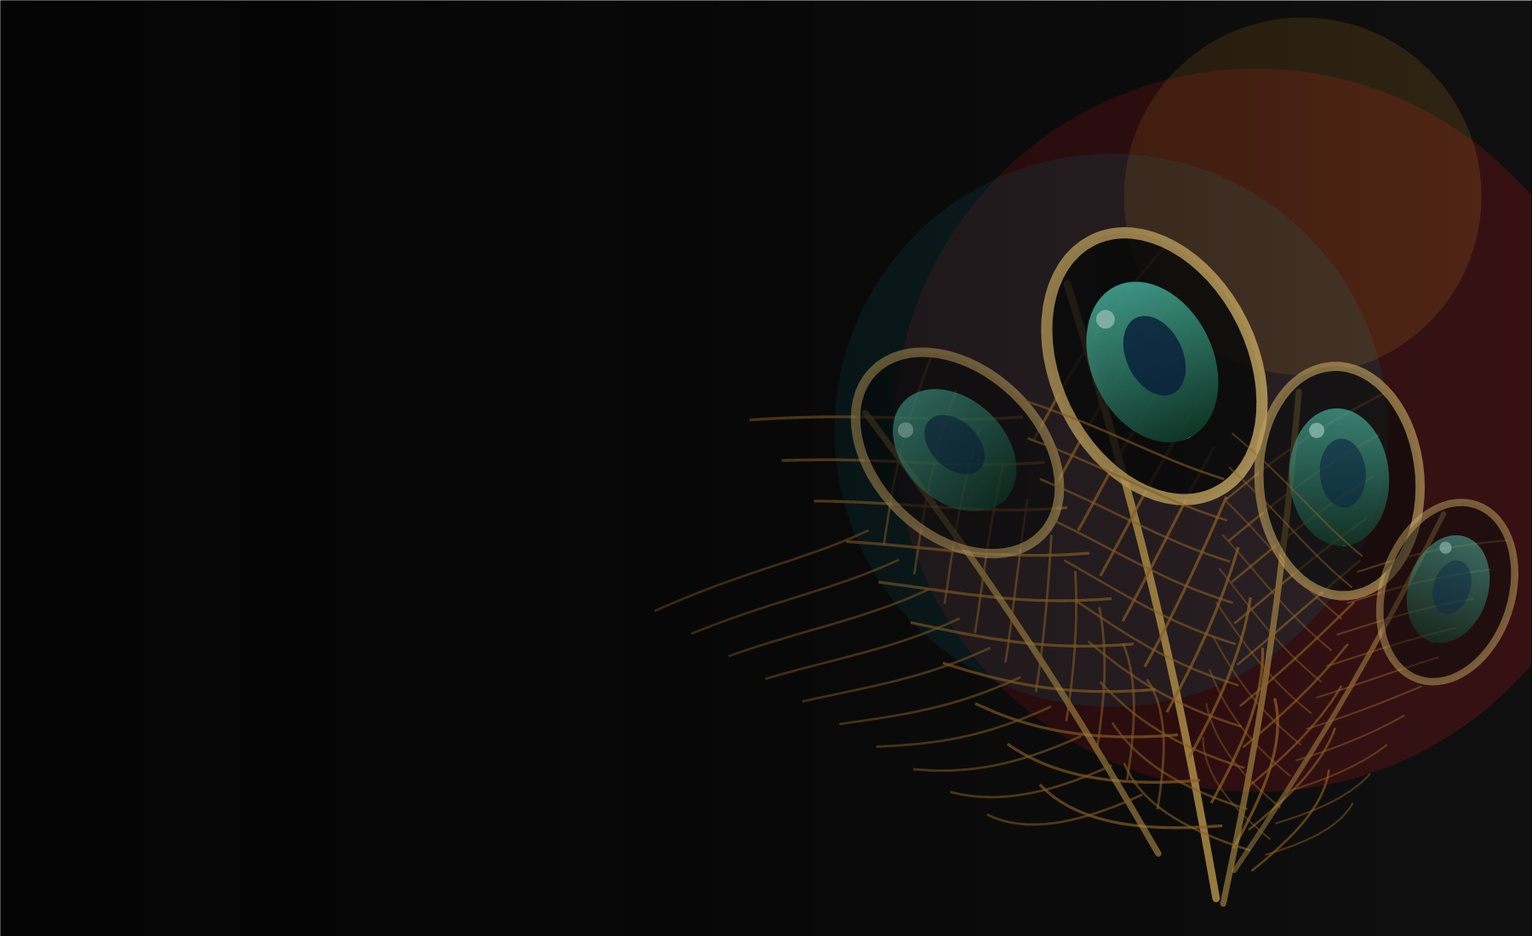
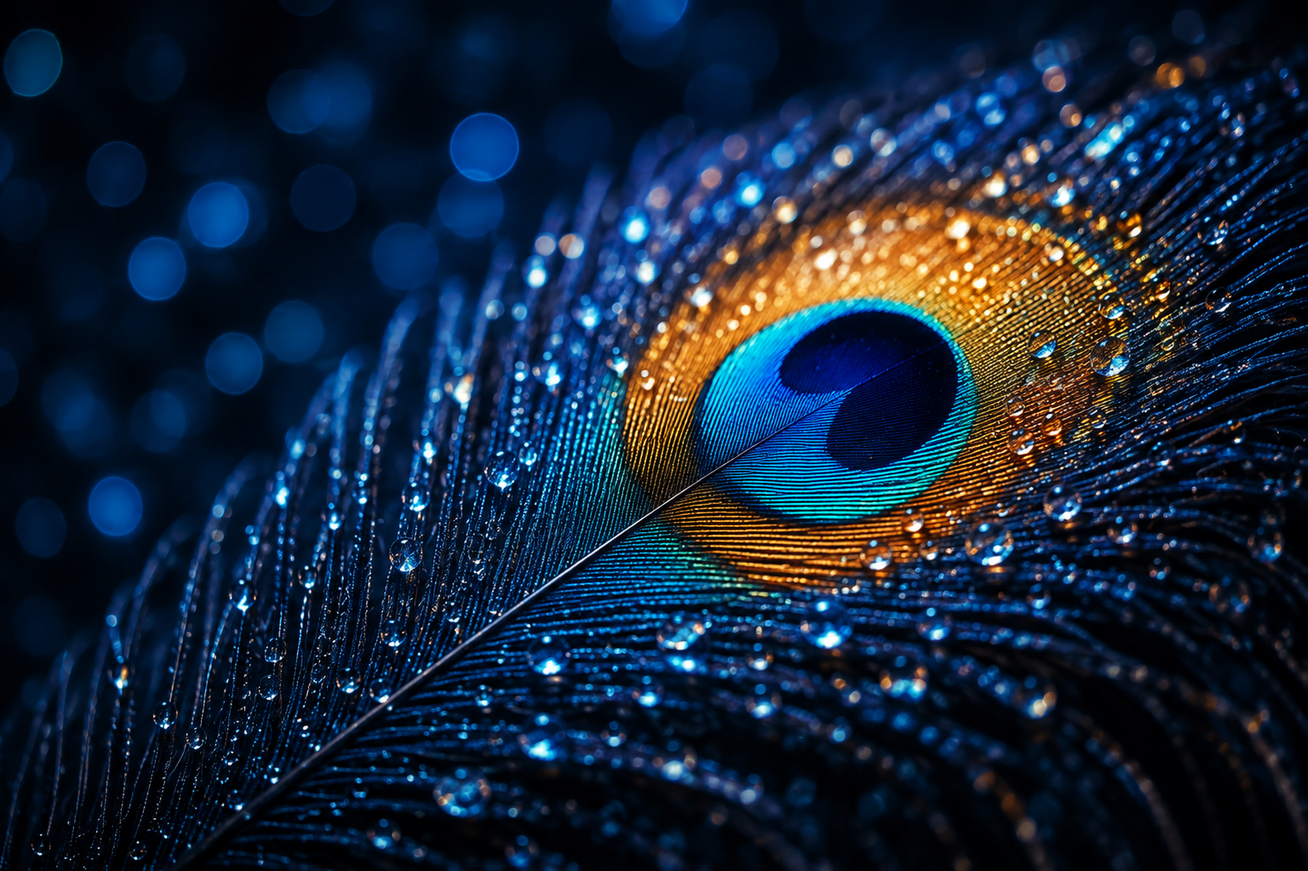
upriosing

diff --git a/lib/ai/mock-assistant.ts b/lib/ai/mock-assistant.ts
@@ -35,9 +35,9 @@ const KNOWLEDGE_BASE: KnowledgeEntry[] = [
     href: '/mock-tests',
     label: { en: 'Start NEET Preparation', ta: 'NEET தயாரிப்பை தொடங்குங்கள்', hi: 'NEET तैयारी शुरू करें' },
     answer: {
-      en: 'SIVORA supports NEET preparation through Question Bank practice, chapter-wise practice, previous-year practice, full-length mock tests, answers, explanations and performance analytics. NEET is the active exam focus today.',
-      ta: 'SIVORA NEET தயாரிப்புக்கு Question Bank, chapter-wise practice, previous-year practice, முழு நீள mock tests, பதில்கள், விளக்கங்கள் மற்றும் performance analytics வழங்குகிறது. இப்போது செயலில் உள்ள தேர்வு NEET.',
-      hi: 'SIVORA NEET तैयारी के लिए Question Bank practice, chapter-wise practice, previous-year practice, full-length mock tests, answers, explanations और performance analytics देता है. अभी सक्रिय परीक्षा NEET है.',
+      en: 'SIVORA UPRISING supports NEET preparation through Question Bank practice, chapter-wise practice, previous-year practice, full-length mock tests, answers, explanations and performance analytics. NEET is the active exam focus today.',
+      ta: 'SIVORA UPRISING NEET தயாரிப்புக்கு Question Bank, chapter-wise practice, previous-year practice, முழு நீள mock tests, பதில்கள், விளக்கங்கள் மற்றும் performance analytics வழங்குகிறது. இப்போது செயலில் உள்ள தேர்வு NEET.',
+      hi: 'SIVORA UPRISING NEET तैयारी के लिए Question Bank practice, chapter-wise practice, previous-year practice, full-length mock tests, answers, explanations और performance analytics देता है. अभी सक्रिय परीक्षा NEET है.',
     },
   },
   {
@@ -57,9 +57,9 @@ const KNOWLEDGE_BASE: KnowledgeEntry[] = [
     href: '/admission-guidance',
     label: { en: 'Request Counselling', ta: 'Counselling கேட்க', hi: 'Counselling Request करें' },
     answer: {
-      en: 'SIVORA provides education and admission guidance for medical education, MBBS Abroad, country and university selection, course selection, application guidance and counselling. For India, the site positions the service as MBBS counselling and guidance only, so final choices should be verified with the counselling team.',
-      ta: 'SIVORA medical education, MBBS Abroad, country and university selection, course selection, application guidance மற்றும் counselling-க்கு வழிகாட்டுகிறது. India-க்கு இது MBBS counselling and guidance ஆக மட்டுமே குறிப்பிடப்படுகிறது; இறுதி முடிவுகளை counselling team உடன் verify செய்ய வேண்டும்.',
-      hi: 'SIVORA medical education, MBBS Abroad, country and university selection, course selection, application guidance और counselling में मार्गदर्शन देता है. India के लिए service केवल MBBS counselling and guidance है, इसलिए final options counselling team से verify करने चाहिए.',
+      en: 'SIVORA UPRISING provides education and admission guidance for medical education, MBBS Abroad, country and university selection, course selection, application guidance and counselling. For India, the site positions the service as MBBS counselling and guidance only, so final choices should be verified with the counselling team.',
+      ta: 'SIVORA UPRISING medical education, MBBS Abroad, country and university selection, course selection, application guidance மற்றும் counselling-க்கு வழிகாட்டுகிறது. India-க்கு இது MBBS counselling and guidance ஆக மட்டுமே குறிப்பிடப்படுகிறது; இறுதி முடிவுகளை counselling team உடன் verify செய்ய வேண்டும்.',
+      hi: 'SIVORA UPRISING medical education, MBBS Abroad, country and university selection, course selection, application guidance और counselling में मार्गदर्शन देता है. India के लिए service केवल MBBS counselling and guidance है, इसलिए final options counselling team से verify करने चाहिए.',
     },
   },
   {
@@ -68,9 +68,9 @@ const KNOWLEDGE_BASE: KnowledgeEntry[] = [
     href: '/partners',
     label: { en: 'Partner With Us', ta: 'Partner With Us', hi: 'Partner With Us' },
     answer: {
-      en: 'SIVORA has a Partner With Us pathway for schools, colleges, coaching centres, education consultants and overseas admission partners. Use the partner page or WhatsApp to speak with the partner team.',
-      ta: 'SIVORA schools, colleges, coaching centres, education consultants மற்றும் overseas admission partners-க்கு Partner With Us வழி வைத்துள்ளது. Partner page அல்லது WhatsApp மூலம் partner team-ஐ தொடர்பு கொள்ளலாம்.',
-      hi: 'SIVORA schools, colleges, coaching centres, education consultants और overseas admission partners के लिए Partner With Us pathway देता है. Partner page या WhatsApp से partner team से बात कर सकते हैं.',
+      en: 'SIVORA UPRISING has a Partner With Us pathway for schools, colleges, coaching centres, education consultants and overseas admission partners. Use the partner page or WhatsApp to speak with the partner team.',
+      ta: 'SIVORA UPRISING schools, colleges, coaching centres, education consultants மற்றும் overseas admission partners-க்கு Partner With Us வழி வைத்துள்ளது. Partner page அல்லது WhatsApp மூலம் partner team-ஐ தொடர்பு கொள்ளலாம்.',
+      hi: 'SIVORA UPRISING schools, colleges, coaching centres, education consultants और overseas admission partners के लिए Partner With Us pathway देता है. Partner page या WhatsApp से partner team से बात कर सकते हैं.',
     },
   },
   {
@@ -98,15 +98,15 @@ const KNOWLEDGE_BASE: KnowledgeEntry[] = [
 ];
 
 const WELCOME: Record<SupportedLocale, string> = {
-  en: "Hi! I'm Ask SIVORA AI. I can help you with NEET preparation, admissions, mock tests, counselling and SIVORA services. What would you like to know?",
-  ta: 'வணக்கம்! நான் Ask SIVORA AI. NEET தயாரிப்பு, சேர்க்கை வழிகாட்டுதல், Mock Tests, Counselling மற்றும் SIVORA சேவைகள் குறித்து உங்களுக்கு உதவ முடியும். என்ன தெரிந்து கொள்ள விரும்புகிறீர்கள்?',
-  hi: 'नमस्ते! मैं Ask SIVORA AI हूं. मैं NEET तैयारी, एडमिशन, मॉक टेस्ट, काउंसलिंग और SIVORA सेवाओं के बारे में आपकी मदद कर सकता हूं. आप क्या जानना चाहते हैं?',
+  en: "Hi! I'm Ask SIVORA UPRISING AI. I can help you with NEET preparation, admissions, mock tests, counselling and SIVORA UPRISING services. What would you like to know?",
+  ta: 'வணக்கம்! நான் Ask SIVORA UPRISING AI. NEET தயாரிப்பு, சேர்க்கை வழிகாட்டுதல், Mock Tests, Counselling மற்றும் SIVORA UPRISING சேவைகள் குறித்து உங்களுக்கு உதவ முடியும். என்ன தெரிந்து கொள்ள விரும்புகிறீர்கள்?',
+  hi: 'नमस्ते! मैं Ask SIVORA UPRISING AI हूं. मैं NEET तैयारी, एडमिशन, मॉक टेस्ट, काउंसलिंग और SIVORA UPRISING सेवाओं के बारे में आपकी मदद कर सकता हूं. आप क्या जानना चाहते हैं?',
 };
 
 const FALLBACK: Record<SupportedLocale, string> = {
-  en: 'I do not have enough verified SIVORA information to answer that confidently. Please talk to our team for current, confirmed guidance.',
-  ta: 'அதற்கு நம்பிக்கையுடன் பதில் அளிக்க போதுமான verified SIVORA தகவல் இல்லை. தற்போதைய உறுதியான வழிகாட்டலுக்கு எங்கள் team-ஐ தொடர்பு கொள்ளுங்கள்.',
-  hi: 'इसका भरोसेमंद जवाब देने के लिए मेरे पास पर्याप्त verified SIVORA जानकारी नहीं है. Current और confirmed guidance के लिए हमारी team से बात करें.',
+  en: 'I do not have enough verified SIVORA UPRISING information to answer that confidently. Please talk to our team for current, confirmed guidance.',
+  ta: 'அதற்கு நம்பிக்கையுடன் பதில் அளிக்க போதுமான verified SIVORA UPRISING தகவல் இல்லை. தற்போதைய உறுதியான வழிகாட்டலுக்கு எங்கள் team-ஐ தொடர்பு கொள்ளுங்கள்.',
+  hi: 'इसका भरोसेमंद जवाब देने के लिए मेरे पास पर्याप्त verified SIVORA UPRISING जानकारी नहीं है. Current और confirmed guidance के लिए हमारी team से बात करें.',
 };
 
 const CLEAR_MESSAGE: Record<SupportedLocale, string> = {

diff --git a/components/ai/AIChatButton.tsx b/components/ai/AIChatButton.tsx
@@ -64,7 +64,7 @@ export default function AIChatButton() {
         <div className="flex h-[min(38rem,calc(100vh-7rem))] w-[min(calc(100vw-2rem),25rem)] flex-col overflow-hidden rounded-3xl border border-[#2b2b2b] bg-[#111111] shadow-2xl shadow-black/55">
           <div className="flex items-start justify-between gap-3 border-b border-[#2b2b2b] bg-[#050505] p-4">
             <div>
-              <p className="text-sm font-black text-white">Ask SIVORA - AI Assistant</p>
+              <p className="text-sm font-black text-white">Ask SIVORA UPRISING - AI Assistant</p>
               <p className="mt-1 text-xs leading-5 text-[#d1d1d1]">Get instant answers in your language.</p>
             </div>
             <button
@@ -100,7 +100,7 @@ export default function AIChatButton() {
                 onChange={(event) => setInput(event.target.value)}
                 className="min-w-0 flex-1 rounded-2xl border border-[#2b2b2b] bg-[#050505] px-3 py-2 text-sm text-white outline-none placeholder:text-[#d1d1d1]/55 focus:border-[#D71920]"
                 placeholder="Ask about NEET, admissions, tests..."
-                aria-label="Ask SIVORA AI a question"
+                aria-label="Ask SIVORA UPRISING AI a question"
               />
               <button
                 type="submit"
@@ -143,14 +143,14 @@ export default function AIChatButton() {
         type="button"
         onClick={() => setOpen((value) => !value)}
         className="group relative flex h-14 w-14 items-center justify-center rounded-full border border-[#FF2B32]/80 bg-[#050505] text-white shadow-[0_0_0_1px_rgba(255,43,50,0.25),0_0_34px_rgba(215,25,32,0.45)] transition hover:-translate-y-0.5 hover:border-[#FF2B32] hover:bg-[#130708] focus-visible:outline focus-visible:outline-2 focus-visible:outline-offset-2 focus-visible:outline-white"
-        aria-label={open ? 'Close Ask SIVORA AI assistant' : 'Open Ask SIVORA AI assistant'}
+        aria-label={open ? 'Close Ask SIVORA UPRISING AI assistant' : 'Open Ask SIVORA UPRISING AI assistant'}
         aria-expanded={open}
-        title="Ask SIVORA AI"
+        title="Ask SIVORA UPRISING AI"
       >
         <span className="absolute inset-0 rounded-full bg-[#D71920]/18 motion-safe:animate-ping" aria-hidden="true" />
         <RobotIcon className="relative h-7 w-7" />
         <span className="pointer-events-none absolute right-16 top-1/2 hidden -translate-y-1/2 whitespace-nowrap rounded-full border border-white/10 bg-[#111111] px-3 py-1.5 text-xs font-bold text-white opacity-0 shadow-xl shadow-black/30 transition group-hover:opacity-100 group-focus-visible:opacity-100 sm:block">
-          Ask SIVORA AI
+          Ask SIVORA UPRISING AI
         </span>
       </button>
     </div>

diff --git a/lib/contact/whatsapp-enquiry.ts b/lib/contact/whatsapp-enquiry.ts
@@ -27,7 +27,7 @@ export const isWhatsAppButtonHiddenPath = isFloatingContactHiddenPath;
 
 export function buildDefaultWhatsAppMessage(pathname: string) {
   return [
-    'Hello SIVORA, I would like to know more about your education, competitive exam preparation and admission guidance services.',
+    'Hello SIVORA UPRISING, I would like to know more about your education, competitive exam preparation and admission guidance services.',
     pathname ? `Current page: ${pathname}` : undefined,
   ]
     .filter(Boolean)
@@ -36,7 +36,7 @@ export function buildDefaultWhatsAppMessage(pathname: string) {
 
 export function buildStudentWhatsAppMessage(category: string, pathname: string) {
   return [
-    `Hello SIVORA, I would like information about ${category}. Please guide me.`,
+    `Hello SIVORA UPRISING, I would like information about ${category}. Please guide me.`,
     pathname ? `Current page: ${pathname}` : undefined,
   ]
     .filter(Boolean)
@@ -45,7 +45,7 @@ export function buildStudentWhatsAppMessage(category: string, pathname: string) 
 
 export function buildPartnerWhatsAppMessage(type: string, pathname: string) {
   return [
-    'Hello SIVORA Partner Team, I am interested in discussing a B2B partnership.',
+    'Hello SIVORA UPRISING Partner Team, I am interested in discussing a B2B partnership.',
     `Organisation type: ${type}.`,
     'Organisation: ____.',
     'Partnership interest: ____.',
@@ -58,7 +58,7 @@ export function buildPartnerWhatsAppMessage(type: string, pathname: string) {
 
 export function buildGeneralWhatsAppMessage(pathname: string) {
   return [
-    'Hello SIVORA, I have a general enquiry. Please guide me.',
+    'Hello SIVORA UPRISING, I have a general enquiry. Please guide me.',
     pathname ? `Current page: ${pathname}` : undefined,
   ]
     .filter(Boolean)

diff --git a/components/partner/PartnerNav.tsx b/components/partner/PartnerNav.tsx
@@ -24,7 +24,7 @@ function isActive(pathname: string, href: string) {
 export default function PartnerNav({ userName, agencyName }: { userName: string; agencyName: string }) {
   const pathname = usePathname();
   const [open, setOpen] = useState(false);
-  const supportMessage = `Hello SIVORA,\nI am contacting you from ${agencyName} and need partner support.`;
+  const supportMessage = `Hello SIVORA UPRISING,\nI am contacting you from ${agencyName} and need partner support.`;
 
   async function logout() {
     await apiPost('/api/auth/logout');
@@ -77,14 +77,14 @@ export default function PartnerNav({ userName, agencyName }: { userName: string;
   return (
     <>
       <div className="sticky top-0 z-40 flex items-center justify-between border-b border-white/10 bg-[#061114] px-4 py-3 lg:hidden">
-        <span className="text-sm font-black uppercase tracking-[0.12em] text-white">SIVORA Partner</span>
+        <span className="text-sm font-black uppercase tracking-[0.12em] text-white">SIVORA UPRISING Partner</span>
         <button type="button" onClick={() => setOpen(true)} className="rounded-lg border border-white/10 px-3 py-2 text-sm text-white">
           Menu
         </button>
       </div>
       <aside className="fixed inset-y-0 left-0 z-40 hidden w-72 flex-col border-r border-white/10 bg-[#061114] lg:flex">
         <div className="border-b border-white/10 px-5 py-5">
-          <p className="text-xs font-black uppercase tracking-[0.22em] text-[#2dd4bf]">SIVORA</p>
+          <p className="text-xs font-black uppercase tracking-[0.22em] text-[#2dd4bf]">SIVORA UPRISING</p>
           <p className="mt-1 text-lg font-black text-white">Partner Portal</p>
         </div>
         {links}

diff --git a/app/(public)/terms/page.tsx b/app/(public)/terms/page.tsx
@@ -11,11 +11,11 @@ export default function TermsPage() {
   return (
     <Container className="py-14 sm:py-20">
       <div className="max-w-3xl">
-        <p className="text-sm font-bold uppercase tracking-wide text-brand">SIVORA</p>
+        <p className="text-sm font-bold uppercase tracking-wide text-brand">SIVORA UPRISING</p>
         <h1 className="mt-3 text-3xl font-extrabold text-textPrimary">Terms & Conditions</h1>
         <div className="mt-6 space-y-4 text-sm leading-7 text-textSecondary">
           <p>
-            SIVORA provides competitive-exam preparation tools including question practice, mock tests,
+            SIVORA UPRISING provides competitive-exam preparation tools including question practice, mock tests,
             explanations and progress review. NEET is the currently active exam category.
           </p>
           <p>
@@ -24,7 +24,7 @@ export default function TermsPage() {
             shown at the time of use.
           </p>
           <p>
-            Educational content is provided for practice and revision. SIVORA does not guarantee exam
+            Educational content is provided for practice and revision. SIVORA UPRISING does not guarantee exam
             ranks, admissions, selections or outcomes.
           </p>
         </div>

diff --git a/app/(partner-portal)/partner/support/page.tsx b/app/(partner-portal)/partner/support/page.tsx
@@ -8,12 +8,12 @@ export default async function PartnerSupportPage() {
       <p className="text-sm font-bold uppercase tracking-[0.18em] text-[#2dd4bf]">Support</p>
       <h1 className="mt-3 text-3xl font-black text-white">Need help?</h1>
       <p className="mt-3 max-w-xl text-sm leading-6 text-slate-300">
-        Full support ticketing is coming later. For Phase 1, use WhatsApp to reach the SIVORA partner team.
+        Full support ticketing is coming later. For Phase 1, use WhatsApp to reach the SIVORA UPRISING partner team.
       </p>
       <div className="mt-6">
         <WhatsAppLink
-          label="Chat with SIVORA on WhatsApp"
-          message={`Hello SIVORA,\nI am contacting you from ${agency.name} and need partner support.`}
+          label="Chat with SIVORA UPRISING on WhatsApp"
+          message={`Hello SIVORA UPRISING,\nI am contacting you from ${agency.name} and need partner support.`}
           className="inline-flex rounded-lg border border-emerald-400/40 bg-emerald-500/10 px-5 py-3 text-sm font-black uppercase tracking-[0.08em] text-emerald-100 hover:bg-emerald-500/20"
         />
       </div>

diff --git a/prisma/seed.ts b/prisma/seed.ts
@@ -1,5 +1,5 @@
 /**
- * Database seed for the SIVORA competitive-exam preparation platform.
+ * Database seed for the SIVORA UPRISING competitive-exam preparation platform.
  *
  * Seeds: 4 NEET subjects, 5 chapters each (with weightage), 20 bilingual sample
  * questions (en + ta), the 6 admission countries, a super admin + an admin, and
@@ -319,7 +319,7 @@ async function main() {
   // 7. One welcome notification (demonstrates the model; no reads yet).
   await prisma.notification.create({
     data: {
-      title: { en: 'Welcome to SIVORA!', ta: 'SIVORA-க்கு வரவேற்கிறோம்!' },
+      title: { en: 'Welcome to SIVORA UPRISING!', ta: 'SIVORA UPRISING-க்கு வரவேற்கிறோம்!' },
       message: {
         en: 'New mock tests are now available for just ₹30. Start practising today.',
         ta: 'புதிய மாதிரித் தேர்வுகள் இப்போது ₹30க்கு கிடைக்கின்றன. இன்றே பயிற்சியைத் தொடங்குங்கள்.',

diff --git a/components/partner/forms/PartnerLoginForm.tsx b/components/partner/forms/PartnerLoginForm.tsx
@@ -41,7 +41,7 @@ export default function PartnerLoginForm() {
     <form onSubmit={handleSubmit(onSubmit)} className="space-y-4" noValidate>
       <div>
         <h1 className="text-xl font-bold text-textPrimary">Partner Login</h1>
-        <p className="mt-1 text-sm text-textSecondary">Approved SIVORA agency partners only.</p>
+        <p className="mt-1 text-sm text-textSecondary">Approved SIVORA UPRISING agency partners only.</p>
       </div>
 
       {banner ? <Banner kind="error">{banner}</Banner> : null}
@@ -72,7 +72,7 @@ function partnerErrorText(code?: string) {
     required: 'This field is required.',
     emailInvalid: 'Enter a valid email address.',
     invalidCredentials: 'Incorrect partner login details.',
-    accountInactive: 'This partner account is inactive. Contact SIVORA.',
+    accountInactive: 'This partner account is inactive. Contact SIVORA UPRISING.',
     rateLimited: 'Too many login attempts. Please wait a few minutes.',
     network: 'Network error. Please check your connection.',
   };

diff --git a/components/brand/Logo.tsx b/components/brand/Logo.tsx
@@ -10,18 +10,20 @@ type BrandLogoProps = {
 export default function BrandLogo({
   className = '',
   href = '/',
-  label = 'SIVORA Trishul logo',
+  label = 'SIVORA UPRISING Trishul logo',
   size = 'default',
 }: BrandLogoProps) {
   const imageClass = size === 'compact' ? 'h-9 max-w-[8.5rem] sm:h-10' : 'h-10 max-w-[10rem] sm:h-12 sm:max-w-[12rem]';
+  const textClass = size === 'compact' ? 'text-xs sm:text-sm' : 'text-sm sm:text-base';
 
   return (
-    <Link href={href} className={`flex shrink-0 items-center text-textPrimary ${className}`} aria-label={label}>
+    <Link href={href} className={`flex shrink-0 items-center gap-2 text-textPrimary ${className}`} aria-label={label}>
       <img
         src="/sivora-logo.png"
-        alt="SIVORA Trishul logo"
+        alt="SIVORA UPRISING Trishul logo"
         className={`${imageClass} w-auto object-contain object-left`}
       />
+      <span className={`font-black uppercase tracking-[0.14em] text-white ${textClass}`}>UPRISING</span>
     </Link>
   );
 }

diff --git a/components/partner/forms/PartnerRegisterForm.tsx b/components/partner/forms/PartnerRegisterForm.tsx
@@ -41,7 +41,7 @@ export default function PartnerRegisterForm() {
     if (res.ok) {
       setBanner({
         kind: 'success',
-        text: `Application submitted. Partner ID: ${String(res.partnerCode ?? '')}. SIVORA will review and activate login after approval.`,
+        text: `Application submitted. Partner ID: ${String(res.partnerCode ?? '')}. SIVORA UPRISING will review and activate login after approval.`,
       });
       return;
     }
@@ -51,7 +51,7 @@ export default function PartnerRegisterForm() {
   return (
     <form onSubmit={handleSubmit(onSubmit)} className="space-y-4" noValidate>
       <div>
-        <h1 className="text-xl font-bold text-textPrimary">Become a SIVORA Partner</h1>
+        <h1 className="text-xl font-bold text-textPrimary">Become a SIVORA UPRISING Partner</h1>
         <p className="mt-1 text-sm text-textSecondary">Submit your agency details for admin review.</p>
       </div>
 

diff --git a/app/(public)/privacy/page.tsx b/app/(public)/privacy/page.tsx
@@ -11,11 +11,11 @@ export default function PrivacyPage() {
   return (
     <Container className="py-14 sm:py-20">
       <div className="max-w-3xl">
-        <p className="text-sm font-bold uppercase tracking-wide text-brand">SIVORA</p>
+        <p className="text-sm font-bold uppercase tracking-wide text-brand">SIVORA UPRISING</p>
         <h1 className="mt-3 text-3xl font-extrabold text-textPrimary">Privacy Policy</h1>
         <div className="mt-6 space-y-4 text-sm leading-7 text-textSecondary">
           <p>
-            SIVORA collects account details such as name, email, mobile number, school information,
+            SIVORA UPRISING collects account details such as name, email, mobile number, school information,
             preferred language and test activity to provide registration, OTP login, practice, results
             and support workflows.
           </p>

diff --git a/tests/whatsapp.test.ts b/tests/whatsapp.test.ts
@@ -11,12 +11,12 @@ describe('WhatsApp click-to-chat helper', () => {
   });
 
   it('builds an encoded wa.me URL for multiline messages', () => {
-    const result = getWhatsAppUrl('Hello SIVORA,\nI need partner support.', '91 98765 43210');
+    const result = getWhatsAppUrl('Hello SIVORA UPRISING,\nI need partner support.', '91 98765 43210');
 
     expect(result.available).toBe(true);
     if (!result.available) throw new Error('Expected WhatsApp URL to be available');
     expect(result.url).toBe(
-      'https://wa.me/919876543210?text=Hello+SIVORA%2C%0AI+need+partner+support.',
+      'https://wa.me/919876543210?text=Hello+SIVORA UPRISING%2C%0AI+need+partner+support.',
     );
   });
 
